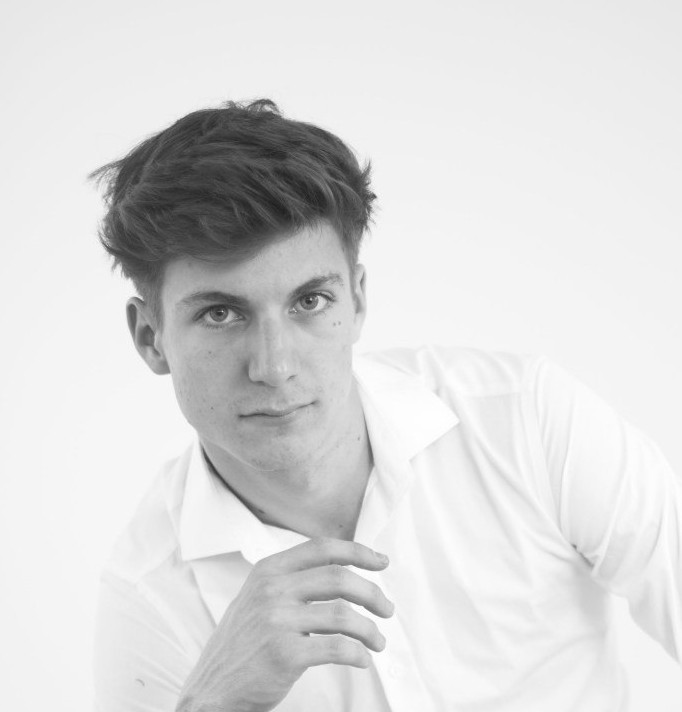
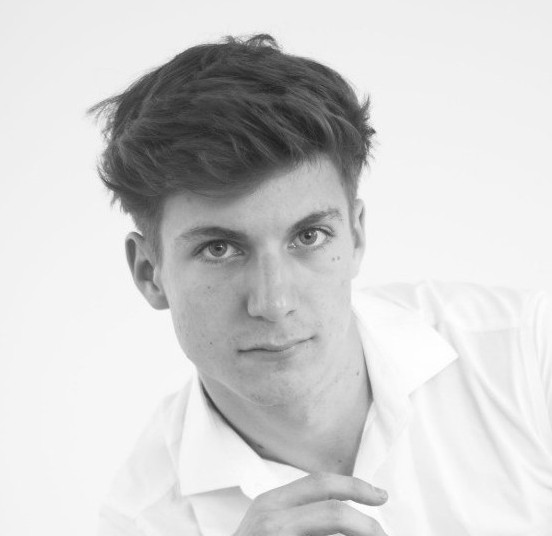
switch image based on light/dark mode

diff --git a/src/components/Card.tsx b/src/components/Card.tsx
@@ -10,11 +10,19 @@ export default function Card() {
     >
       <div className="justify-between xl:flex gap-3 max-w-md w-full">
         <div className="flex justify-center">
+          {darkMode ?
           <img
             className="object-cover w-20 h-20 rounded-full shadow-sm"
             src="./myself.jpg"
             alt=""
           />
+          :
+          <img
+            className="object-cover w-20 h-20 rounded-full shadow-sm"
+            src="./myself2.jpg"
+            alt=""
+          />
+        }
         </div>
         <div className="space-y-1">
           <h5
